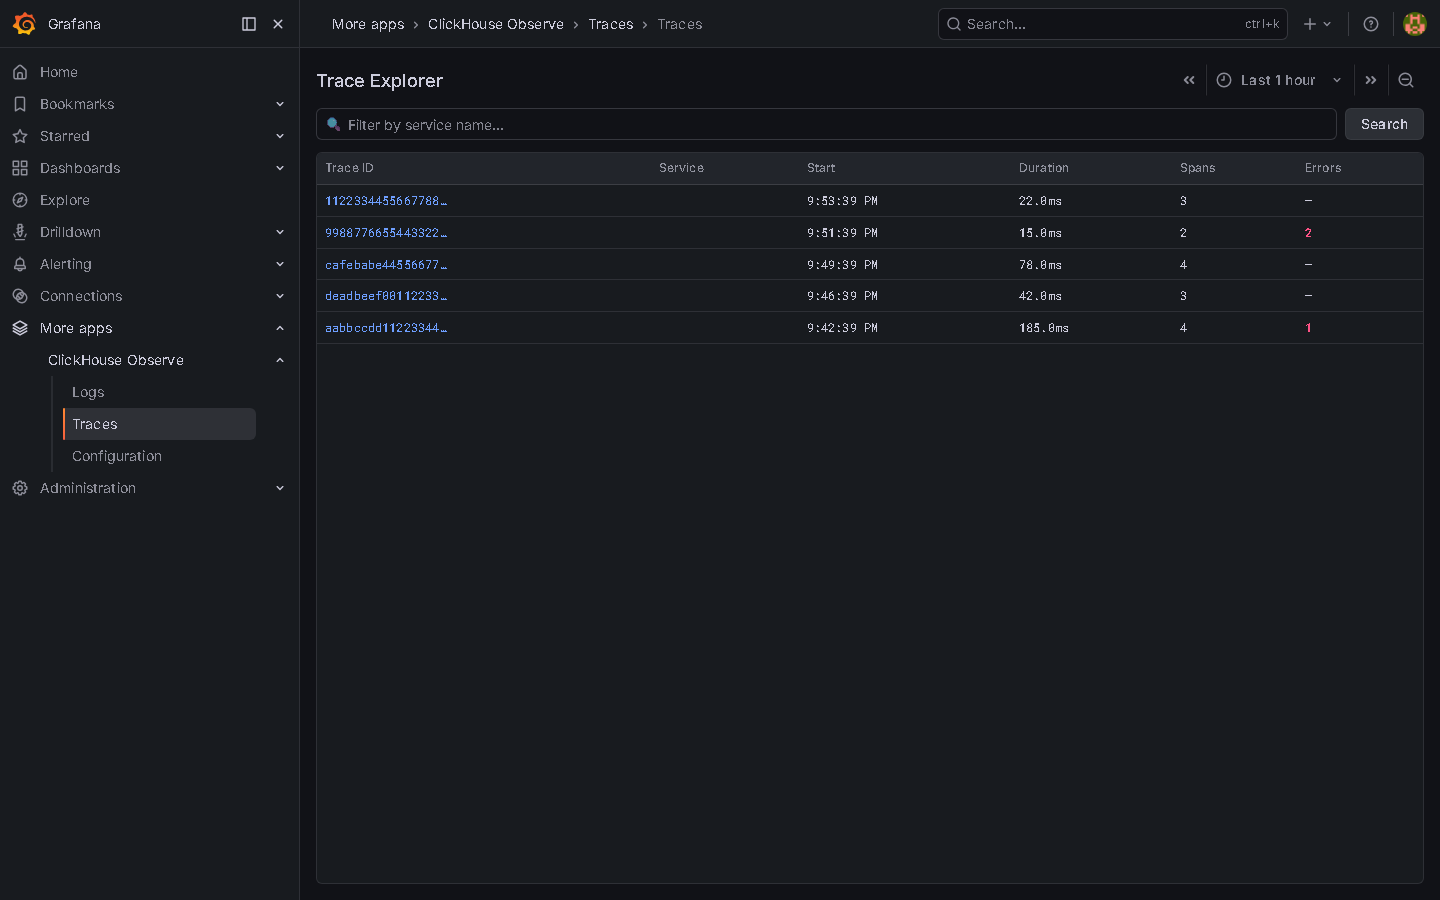
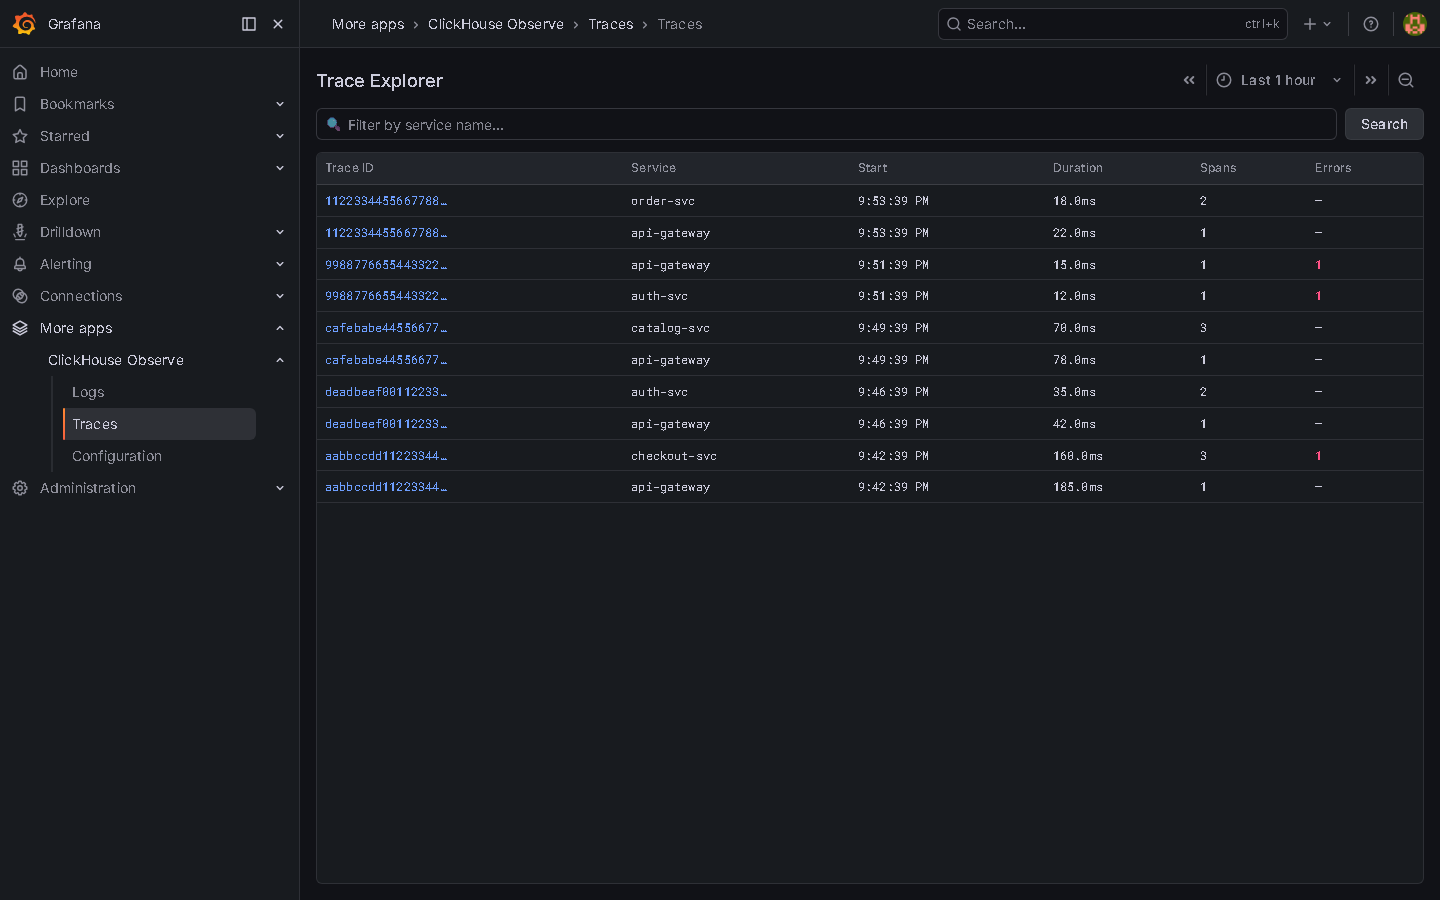
TEST MESSAGE

Changed region(s): [[0.5938, 0.2178, 0.625, 0.3422], [0.25, 0.28, 0.2812, 0.3111]]

diff --git a/src/types.ts b/src/types.ts
@@ -23,7 +23,7 @@ export const OTEL_COLUMN_MAPPING: ColumnMapping = {
   traceId: 'TraceId',
   spanId: 'SpanId',
   parentSpanId: 'ParentSpanId',
-  serviceName: "ResourceAttributes['service.name']",
+  serviceName: 'ServiceName',
   duration: 'Duration',
   resourceAttributes: 'ResourceAttributes',
   logAttributes: 'LogAttributes',
